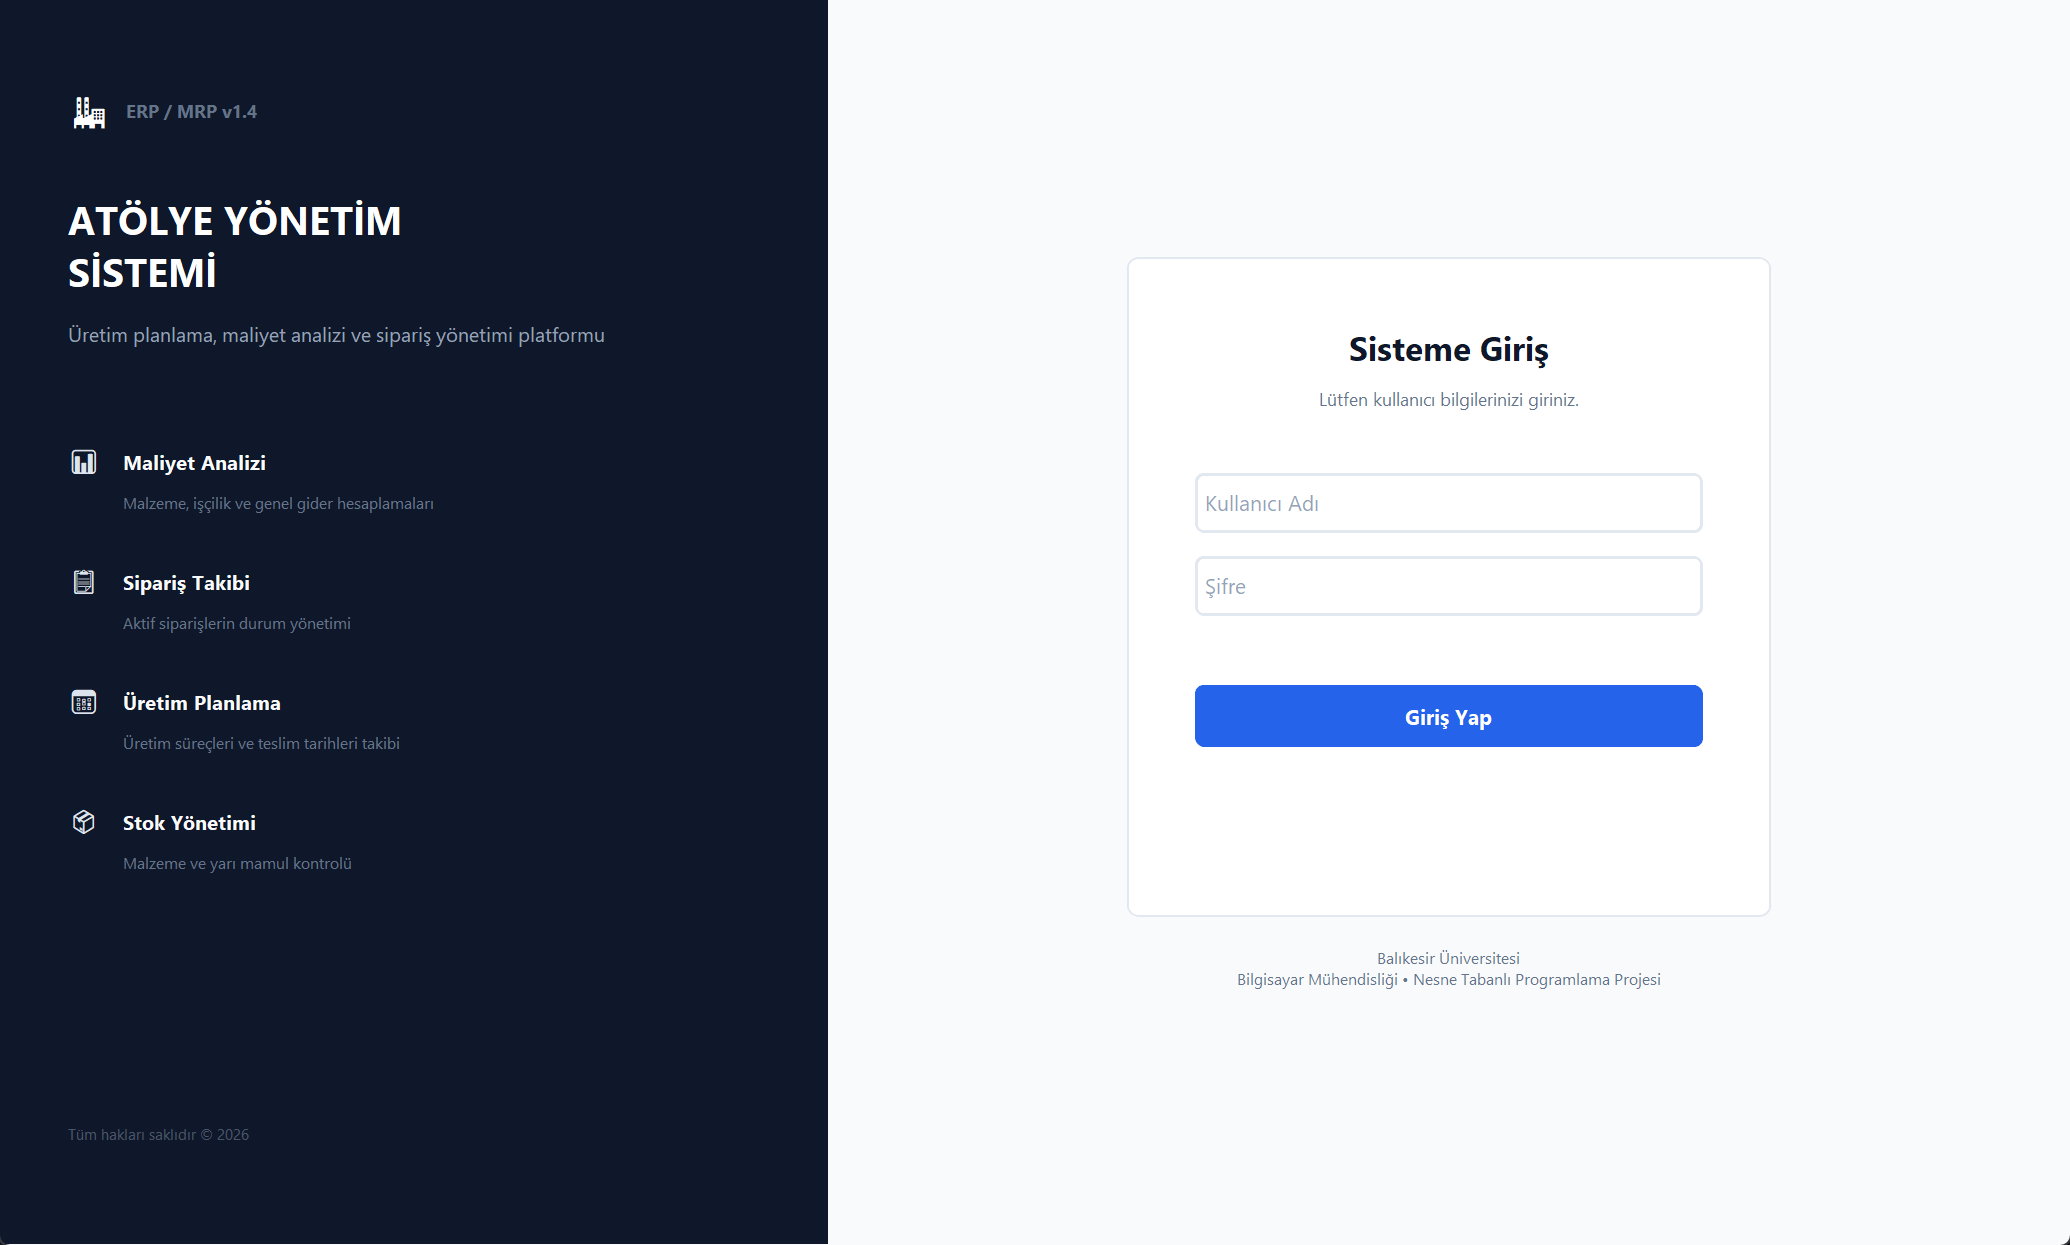
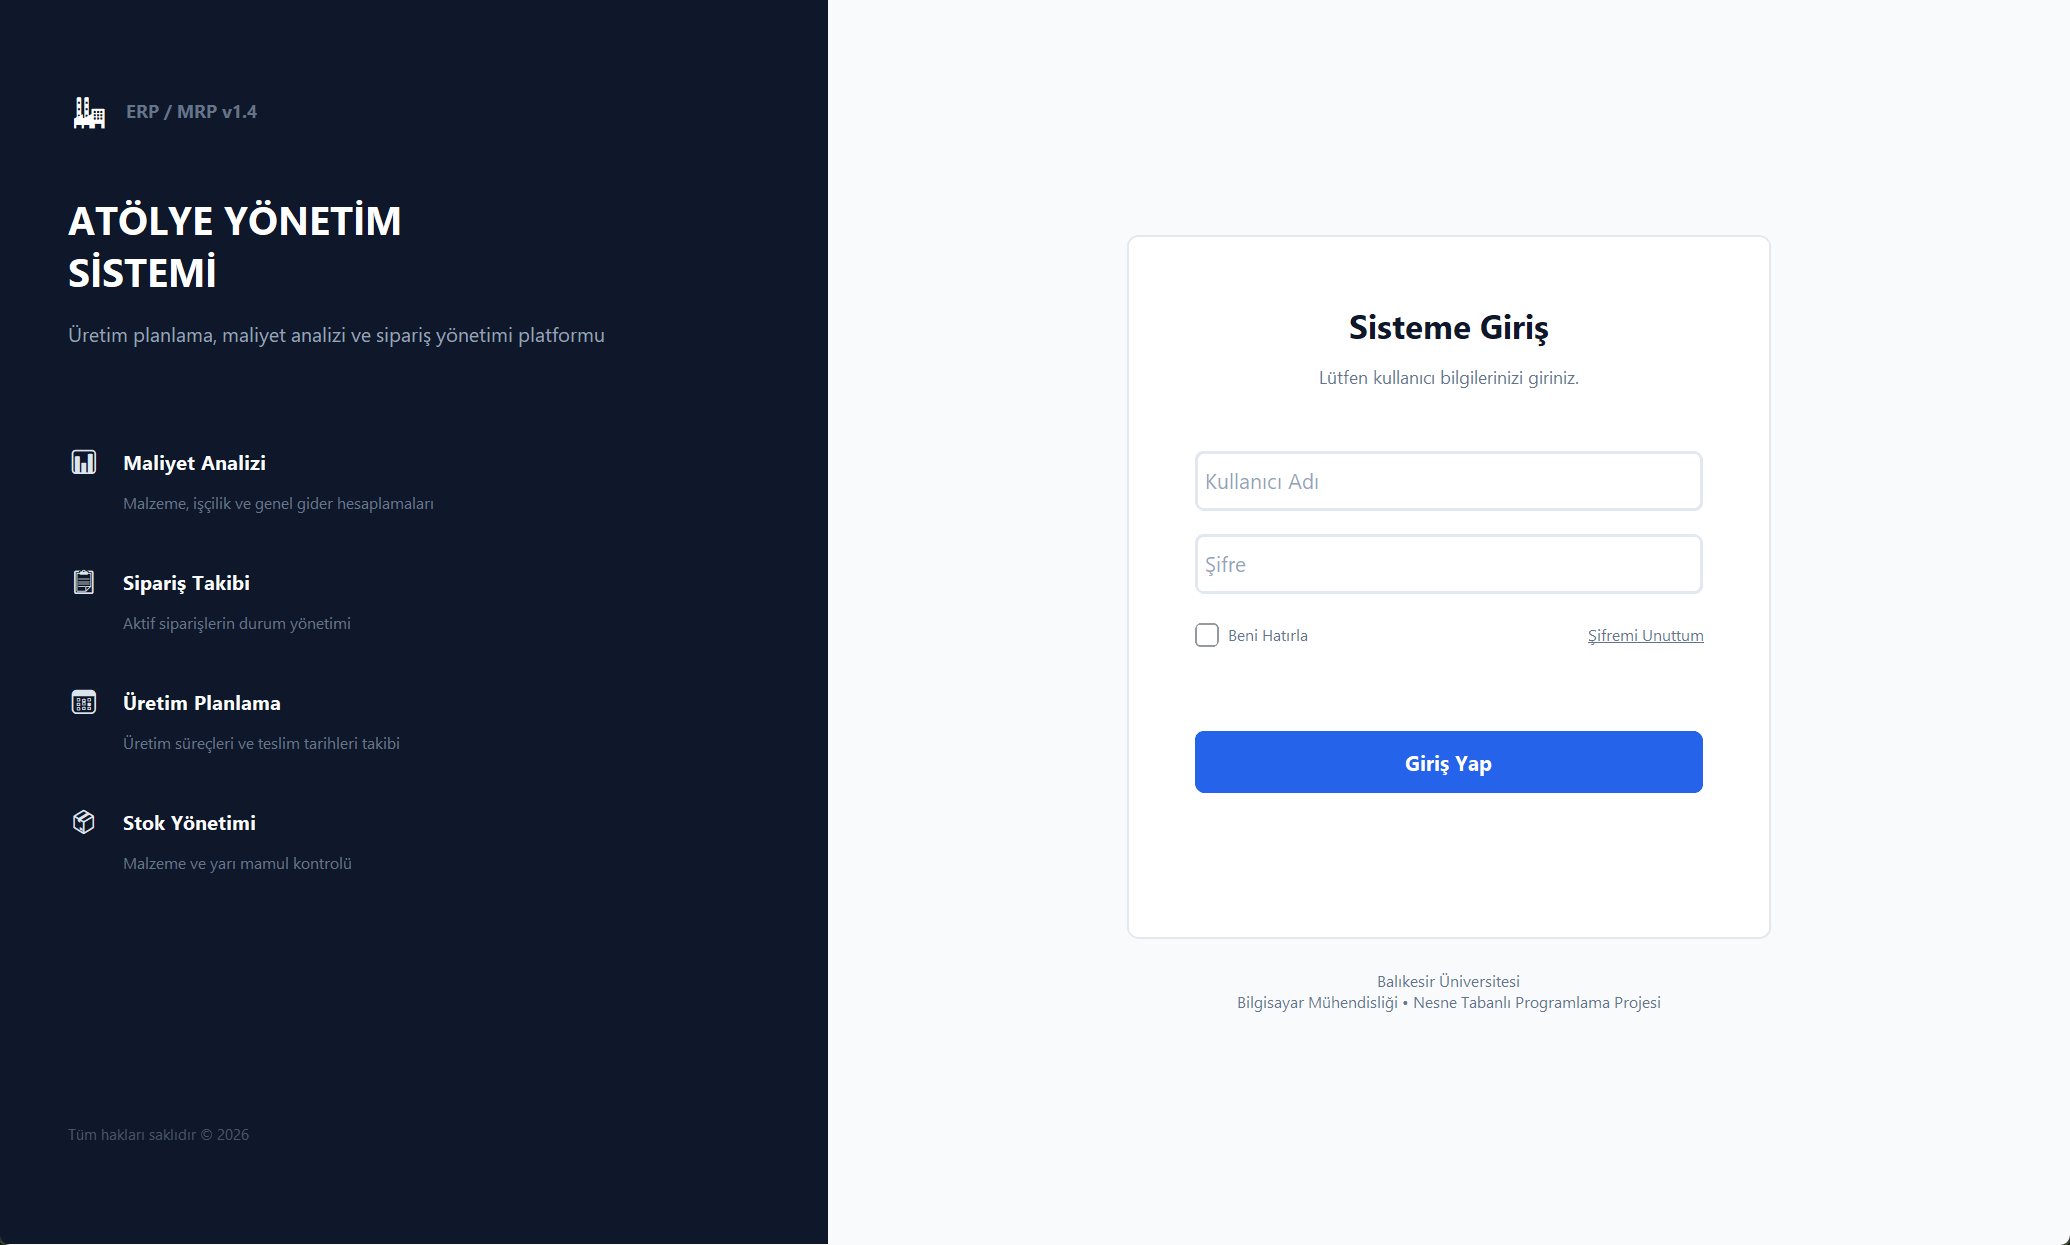
design: giris ekranina beni hatirla, sifremi unuttum secenekleri ve odaksal cerceve vurgusu eklendi

diff --git a/screens/login_screen.py b/screens/login_screen.py
@@ -138,7 +138,7 @@ class LoginScreen(ctk.CTkFrame):
             border_width=1,
             border_color="#E2E8F0",
             width=430,
-            height=440
+            height=470
         )
         self.form_card.pack(pady=(0, 20))
         self.form_card.pack_propagate(False)
@@ -189,6 +189,34 @@ class LoginScreen(ctk.CTkFrame):
         )
         self.entry_password.pack(pady=(0, 8), padx=45, fill="x")
         
+        # Beni Hatırla & Şifremi Unuttum Satırı
+        self.options_frame = ctk.CTkFrame(self.form_card, fg_color="transparent")
+        self.options_frame.pack(fill="x", padx=45, pady=(5, 12))
+        
+        self.cb_remember = ctk.CTkCheckBox(
+            self.options_frame,
+            text="Beni Hatırla",
+            font=ctk.CTkFont(family="Segoe UI", size=11),
+            text_color="#64748B",
+            fg_color="#2563EB",
+            hover_color="#1D4ED8",
+            border_width=1.5,
+            corner_radius=4,
+            checkbox_width=16,
+            checkbox_height=16
+        )
+        self.cb_remember.pack(side="left")
+        
+        self.lbl_forgot = ctk.CTkLabel(
+            self.options_frame,
+            text="Şifremi Unuttum",
+            font=ctk.CTkFont(family="Segoe UI", size=11, underline=True),
+            text_color="#64748B",
+            cursor="hand2"
+        )
+        self.lbl_forgot.pack(side="right")
+        self.lbl_forgot.bind("<Button-1>", lambda e: self.forgot_password_clicked())
+        
         # Hata / Doğrulama Durum Mesajı
         self.lbl_error = ctk.CTkLabel(
             self.form_card, 
@@ -215,8 +243,8 @@ class LoginScreen(ctk.CTkFrame):
             font=Fontlar.BODY_BOLD, 
             height=42, 
             corner_radius=6,
-            fg_color="#2563EB", # Ana Mavi
-            hover_color="#1D4ED8", # Hover Koyu Mavi
+            fg_color="#2563EB", 
+            hover_color="#1D4ED8", 
             text_color="#FFFFFF",
             command=self.handle_login
         )
@@ -266,3 +294,39 @@ class LoginScreen(ctk.CTkFrame):
     def finish_login(self, user):
         self.prog_bar.stop()
         self.on_login_success(user)
+        
+    def forgot_password_clicked(self):
+        info_win = ctk.CTkToplevel(self)
+        info_win.title("Şifre Sıfırlama")
+        info_win.geometry("360x170")
+        info_win.resizable(False, False)
+        info_win.configure(fg_color="#FFFFFF")
+        info_win.transient(self)
+        info_win.grab_set()
+        
+        # Ekranı ortala
+        info_win.update_idletasks()
+        x = self.winfo_screenwidth() // 2 - 180
+        y = self.winfo_screenheight() // 2 - 85
+        info_win.geometry(f"+{x}+{y}")
+        
+        lbl = ctk.CTkLabel(
+            info_win,
+            text="Güvenlik nedeniyle şifre sıfırlama işlemleri\nyalnızca sistem yöneticisi tarafından yapılabilir.\n\nLütfen atölye yöneticiniz ile iletişime geçiniz.",
+            font=ctk.CTkFont(family="Segoe UI", size=12),
+            text_color="#0F172A",
+            justify="center"
+        )
+        lbl.pack(pady=(25, 15))
+        
+        btn = ctk.CTkButton(
+            info_win,
+            text="Tamam",
+            font=Fontlar.SMALL_BOLD,
+            width=100,
+            height=32,
+            fg_color="#2563EB",
+            hover_color="#1D4ED8",
+            command=info_win.destroy
+        )
+        btn.pack()
